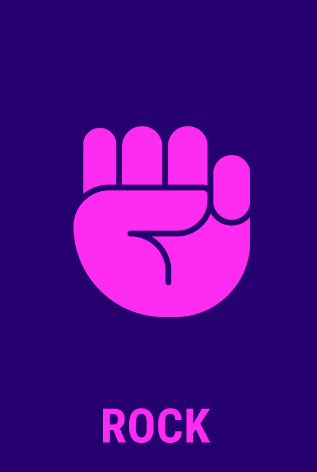
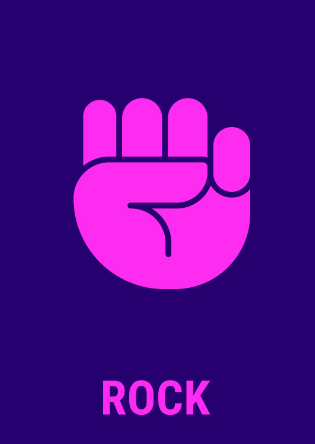
ICP-3

Changed region(s): [[0.2286, 0.205, 0.8, 0.6734], [0.3143, 0.8491, 0.6857, 0.9369]]

diff --git a/ICP-3/Game/input.html b/ICP-3/Game/input.html
@@ -13,7 +13,7 @@
         <h2>Choose your weapon. Good Luck!</h2>
         <div class="col-md-4">
             <button id="rock" class="btn">
-                <img src="rock1.png" alt="rock" class="img-fluid">
+                <img src="rock.png" alt="rock" class="img-fluid">
             </button>
         </div>
         <div class="col-md-4">

diff --git a/ICP-3/Game/js/script.js b/ICP-3/Game/js/script.js
@@ -14,7 +14,7 @@ function play(userChoice) {
         opponentChoice='paper';
     else
         opponentChoice='scissors';
-    // alert(userChoice + oppChoice + opponentChoice);
+
     if (userChoice === opponentChoice)
         alert( "Its a tie! Try again");
     else if (userChoice === "rock")
